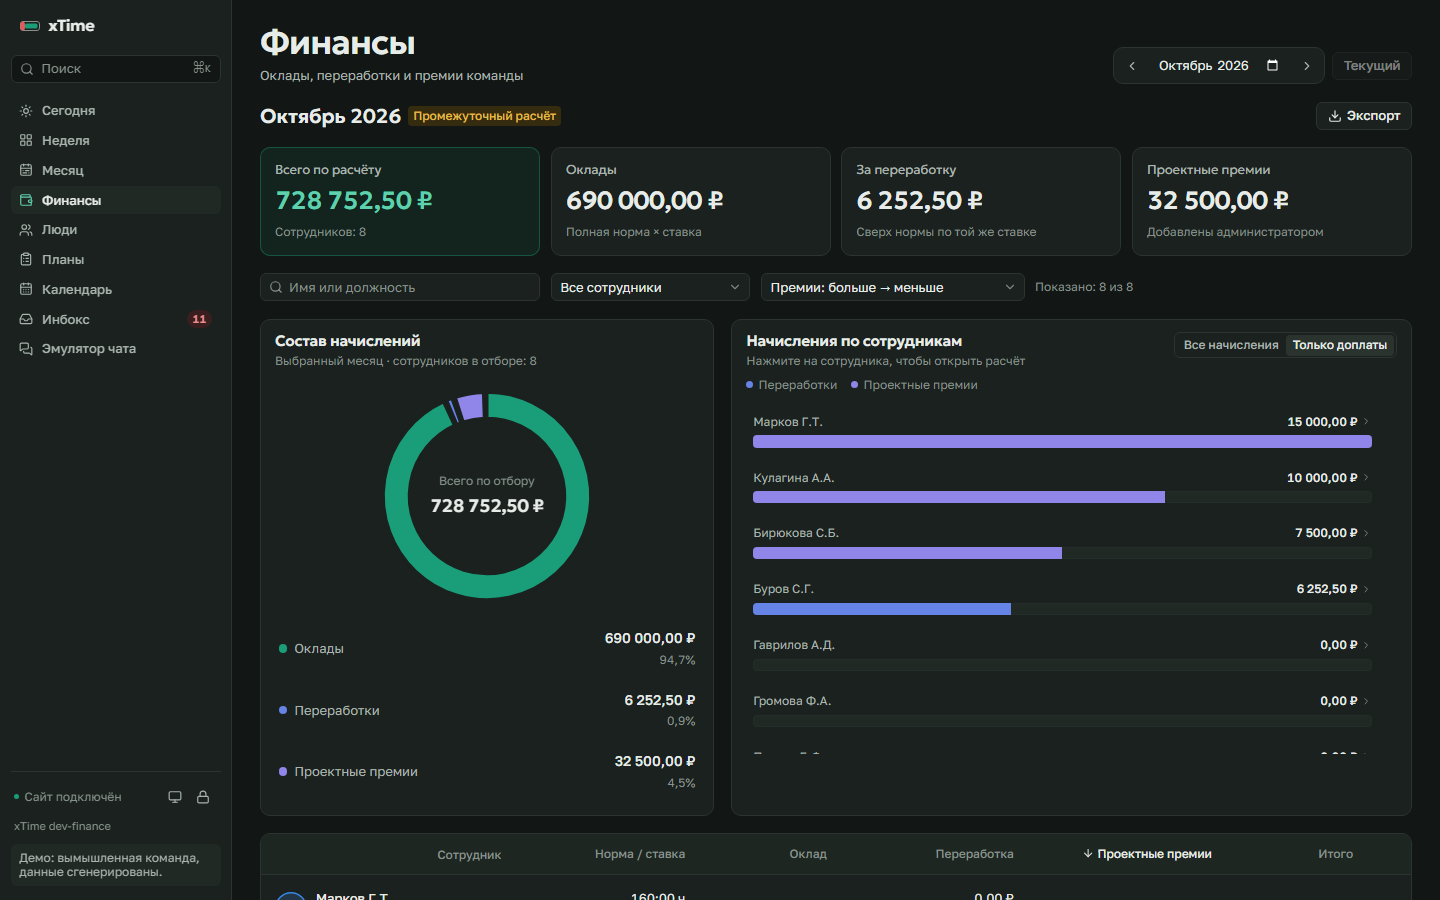
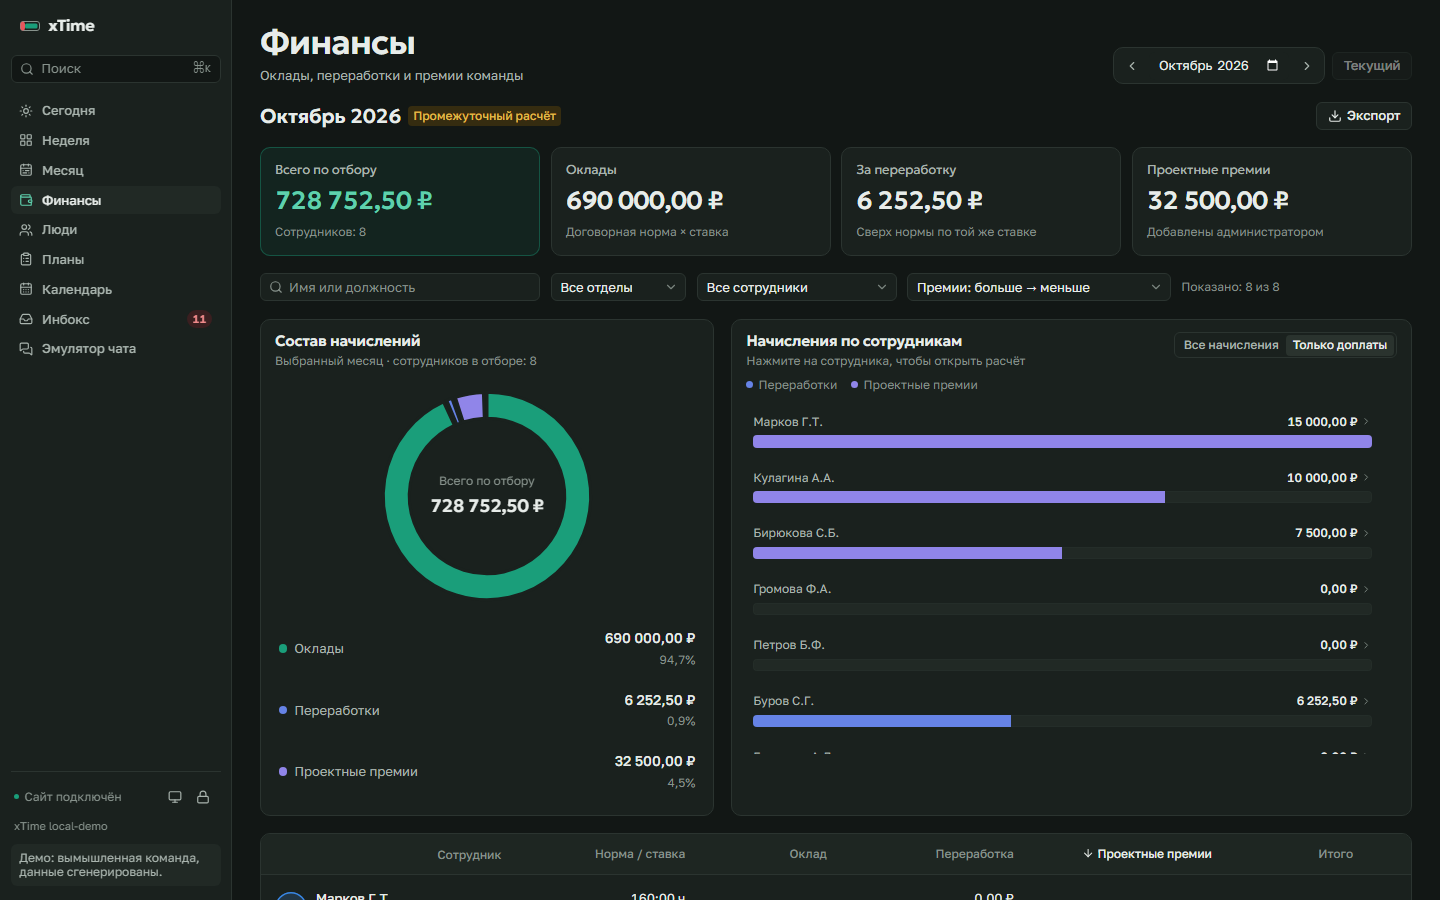
fix(finance): связал верхние итоги с выбранными фильтрами
- пересчитал суммы и количество сотрудников по отделу и поиску
- проверил пустой отбор и сортировку равных премий
- обновил примеры финансов и описание расчёта

diff --git a/frontend/src/pages/FinancePage.tsx b/frontend/src/pages/FinancePage.tsx
@@ -17,6 +17,7 @@ import { useIsAdmin } from "@/hooks/useIsAdmin";
 import { MONTHS, shiftMonth } from "@/lib/format";
 
 import { BonusForm } from "./finance/BonusForm";
+import { sumAmounts } from "./finance/amounts";
 import { FinanceCharts } from "./finance/FinanceCharts";
 import { FinanceDetails } from "./finance/FinanceDetails";
 import { FinanceSummary } from "./finance/FinanceSummary";
@@ -96,7 +97,7 @@ function FinancePeriod({ year, month, current, department }: { year: number; mon
               {admin ? <Button variant="primary" onClick={() => setAdding(true)} disabled={isFetching}><Plus /> Добавить премию</Button> : null}
             </div>
           </div>
-          <FinanceSummary amounts={data.totals} count={data.rows.length} />
+          <FinanceSummary amounts={sumAmounts(rows)} count={rows.length} />
           <div className="flex flex-wrap items-center gap-3">
             <div className="relative min-w-44 flex-1 sm:max-w-80"><Search className="pointer-events-none absolute left-2.5 top-2 size-4 text-ink-3" /><Input className="pl-8" aria-label="Найти сотрудника" placeholder="Имя или должность" value={query} onChange={(event) => setQuery(event.target.value)} /></div>
             <DepartmentFilter value={department.department} onChange={department.setDepartment} />

diff --git a/frontend/src/pages/finance/FinanceSummary.tsx b/frontend/src/pages/finance/FinanceSummary.tsx
@@ -4,13 +4,13 @@ import { money } from "@/lib/format";
 
 export function FinanceSummary({ amounts, count }: { amounts: FinanceAmounts; count: number }) {
   const items = [
-    { label: "Всего по расчёту", value: amounts.total, hint: `Сотрудников: ${count}`, main: true },
+    { label: "Всего по отбору", value: amounts.total, hint: `Сотрудников: ${count}`, main: true },
     { label: "Оклады", value: amounts.salary, hint: "Договорная норма × ставка" },
     { label: "За переработку", value: amounts.overtime_pay, hint: "Сверх нормы по той же ставке" },
     { label: "Проектные премии", value: amounts.project_bonuses, hint: "Добавлены администратором" },
   ];
   return (
-    <div className="grid grid-cols-2 gap-3 xl:grid-cols-4">
+    <div className="grid grid-cols-2 gap-3 xl:grid-cols-4" role="region" aria-label="Итоги финансов по отбору">
       {items.map((item) => (
         <section key={item.label} className={cn("min-w-0 rounded-lg border border-line bg-surface p-3 sm:p-4", item.main && "border-accent/40 bg-accent-soft/40")}>
           <h2 className="text-[13px] text-ink-2">{item.label}</h2>

diff --git a/docs/finance.md b/docs/finance.md
@@ -37,7 +37,7 @@
 В таблицах месяца и финансов фильтр **Отдел** позволяет отдельно смотреть программистов
 и лабораторию; экспорт текущего отбора использует этот состав.
 
-1. Выбрать месяц стрелками или полем месяца. Сверху показаны суммы по всей команде.
+1. Выбрать месяц стрелками или полем месяца. Верхние суммы и число сотрудников учитывают выбранный отдел, поиск и отбор начислений — тот же состав, что таблица и графики. Без фильтров показана вся команда; при пустом отборе суммы нулевые.
 2. В таблице найти сотрудника по имени или должности. Доступны отборы по переработке, проектным премиям и отсутствующей ставке. Список сортировки меняет порядок по общей сумме, премиям, оплате переработки, окладу, ставке, норме и фамилии — в обе стороны. На компьютере можно также нажимать заголовки столбцов; на телефоне сортировка меняет порядок карточек. Нижняя сумма таблицы относится к текущему отбору.
 3. Нажать имя или стрелку сотрудника. Откроется расшифровка оклада, часов и премий. Отсюда можно перейти в таблицу месяца, профиль или настройку нормы и ставки.
 4. В режиме администратора нажать **Добавить премию**, выбрать сотрудника, указать проект, сумму и необязательный комментарий. Месяц задан текущим экраном и указан в форме.
